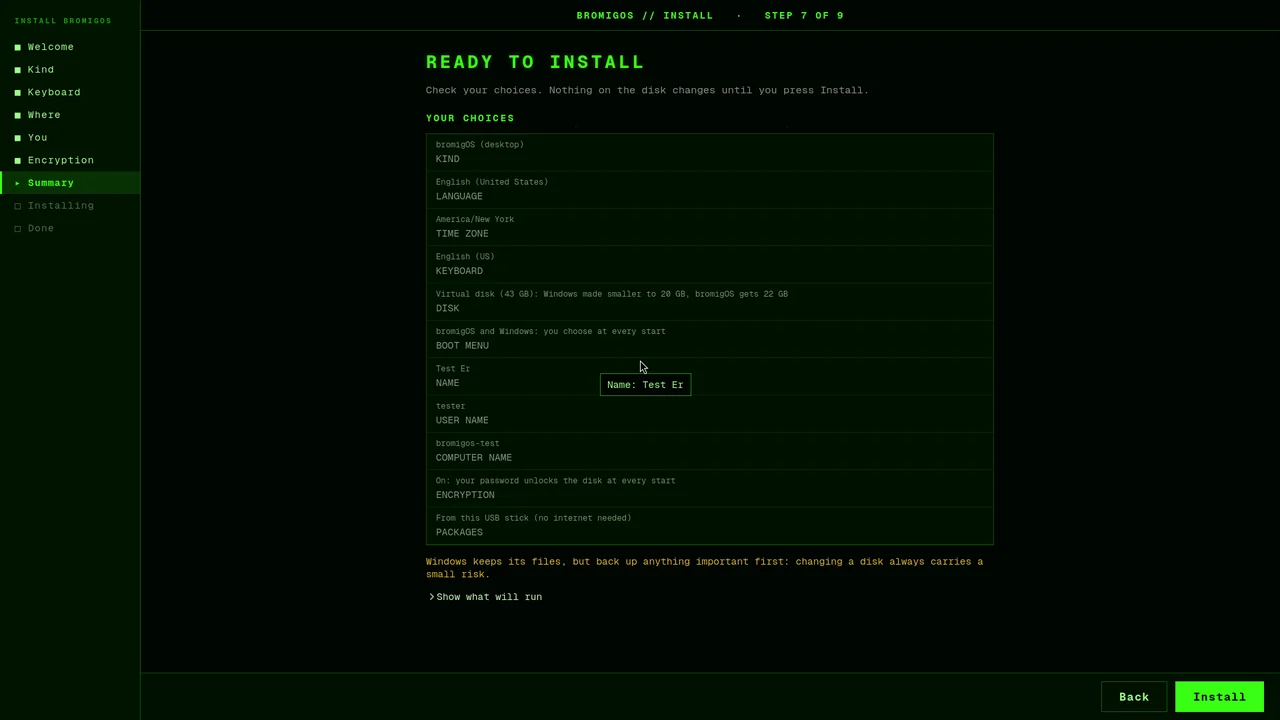
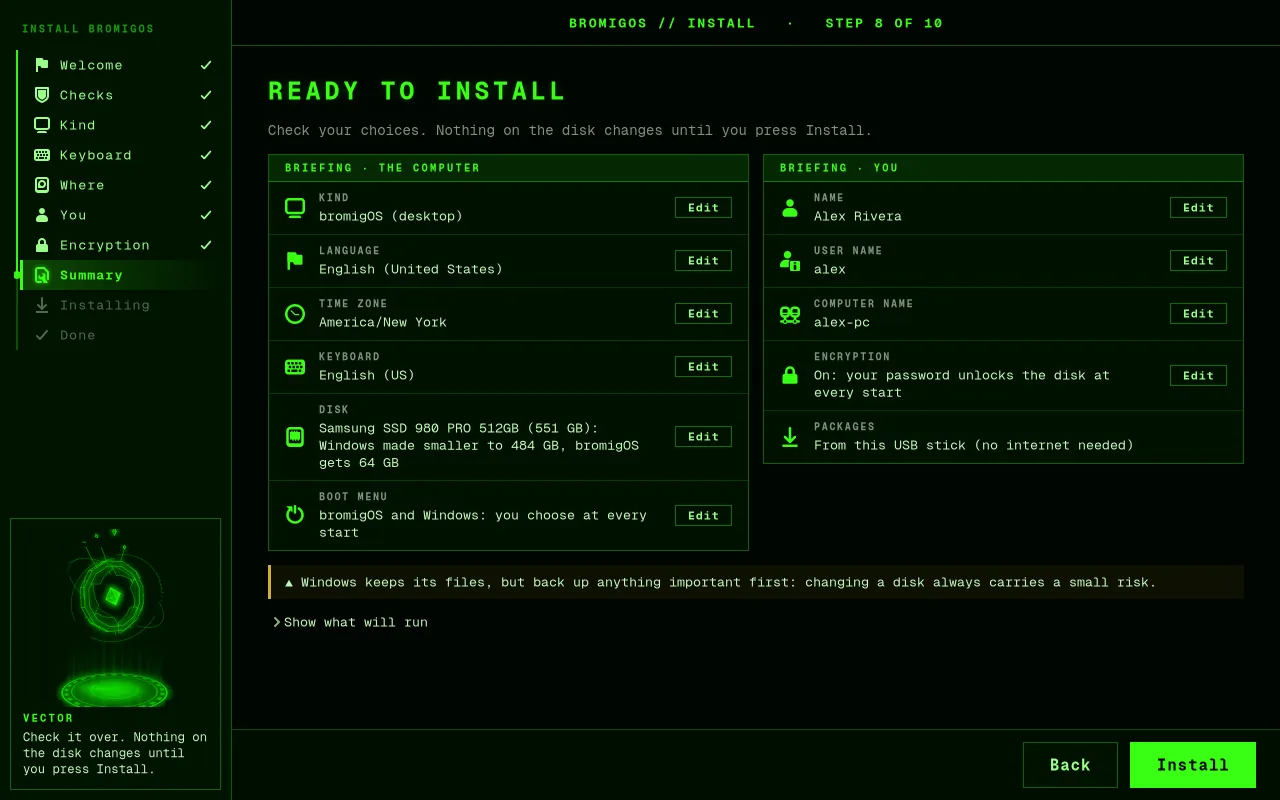
manual: the installer and welcome tour pictures from the redesign; the Done page's Secure Boot code
Claude-Session: https://claude.ai/code/session_01TNH5LNnAcRtMTGabp1hHmy

diff --git a/manual/src/installer.md b/manual/src/installer.md
@@ -75,11 +75,11 @@ itself.
 11. **Installing.** A progress bar and a line saying what's happening. **Details** shows
     every step. It takes about ten minutes.
 12. **Done.** Press **Restart now**. Take out the stick when the screen goes dark. On a
-    computer that starts the newer way (UEFI), this page also shows a four-digit code:
-    note it. At the first start, a blue screen asks you to approve bromigOS once, with that
+    computer that starts the newer way (UEFI), this page also shows a four-digit code in large
+    letters, with the blue screen's steps beside it: note it. At the first start, a blue screen asks you to approve bromigOS once, with that
     code ([Secure Boot](install.md#secure-boot)). Secure Boot can stay on.
 
-    ![bromigOS is installed: what happens at the next start, and Restart now](images/installer-done.webp)
+    ![bromigOS is installed: what happens at the next start, the code for the blue screen with its steps, and Restart now](images/installer-done.webp)
 
 ## Installing alongside Windows
 

diff --git a/manual/src/install.md b/manual/src/install.md
@@ -305,7 +305,7 @@ has the details: the keys, the hooks, recovery.
    - **your keyboard,** with a box to try it in.
    - **where to install.** Choose the disk, then either:
 
-     ![Where to install: a disk with Windows, Install alongside Windows chosen, and the split: Windows 20 GB, bromigOS 22 GB, each side's minimum striped](images/installer-where-alongside-windows.webp)
+     ![Where to install: a disk with Windows, Install alongside Windows chosen, and the split: Windows 484 GB, bromigOS 64 GB, each side's minimum striped](images/installer-where-alongside-windows.webp)
 
      - **Install alongside Windows** (or the other system it found). Windows and its files
        stay. If there isn't free space, the installer makes Windows' part of the disk

diff --git a/manual/src/welcome-tour.md b/manual/src/welcome-tour.md
@@ -47,7 +47,7 @@ To take the tour again: Settings › About › **Welcome tour**, or run `bromigo
 
    Problems are said in plain words, with what to do.
 
-   ![Your lab: two machines found, with what each offers, and Connect](images/welcome-tour-lab.webp)
+   ![Your lab: the machines found on the radar, with what each offers, and Connect](images/welcome-tour-lab.webp)
 
 6. **Pair your phone** with the BRODEC app: see [Pair your phone](phone.md).
 7. **The keys.** Super+Space, Super+Enter, Super+, and a few more. Press one and its card
